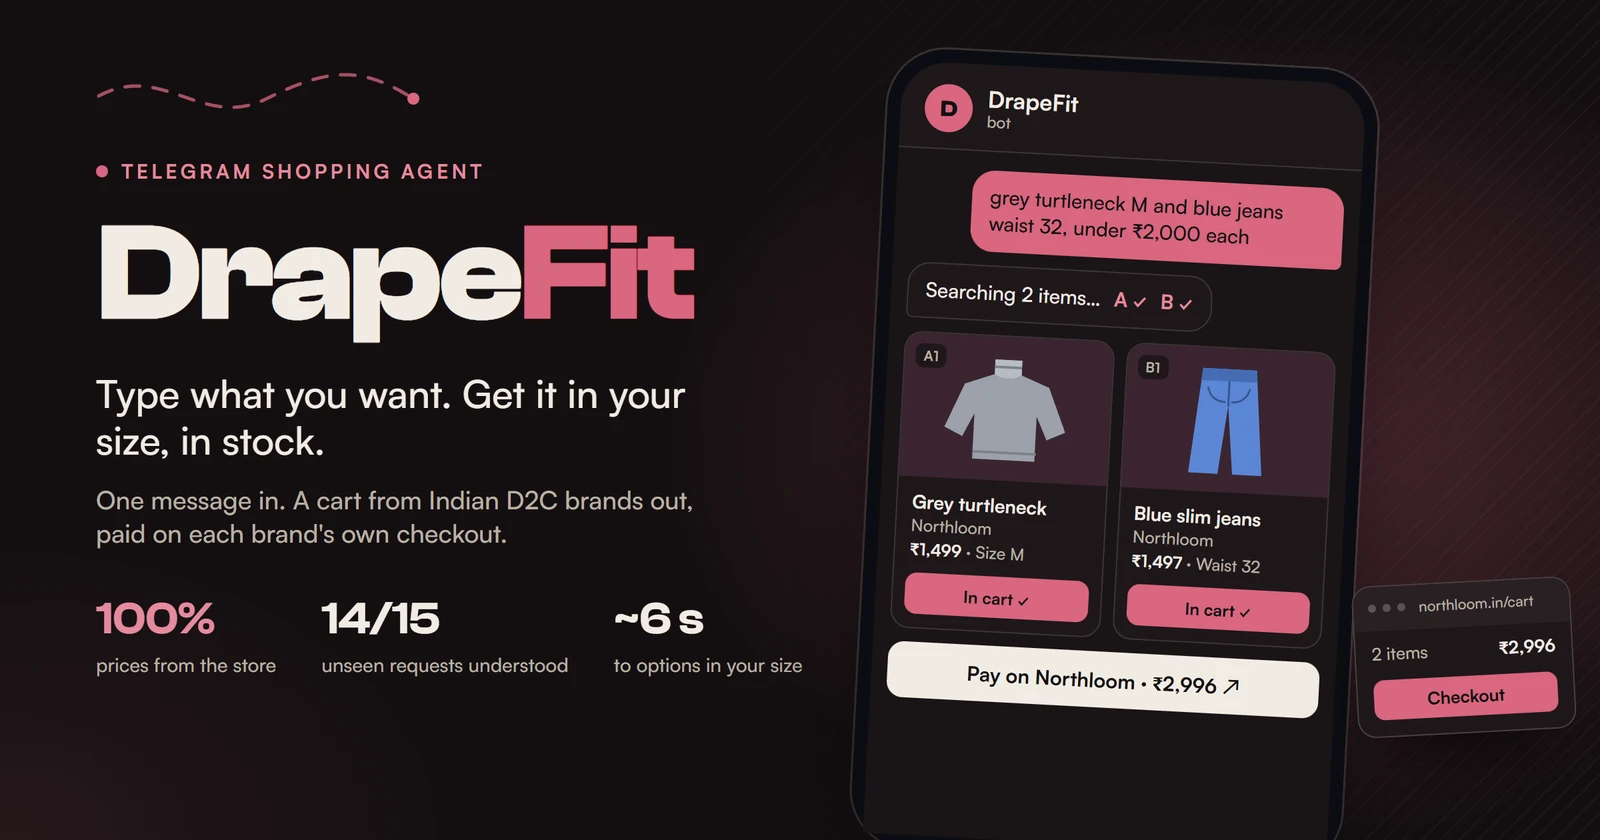
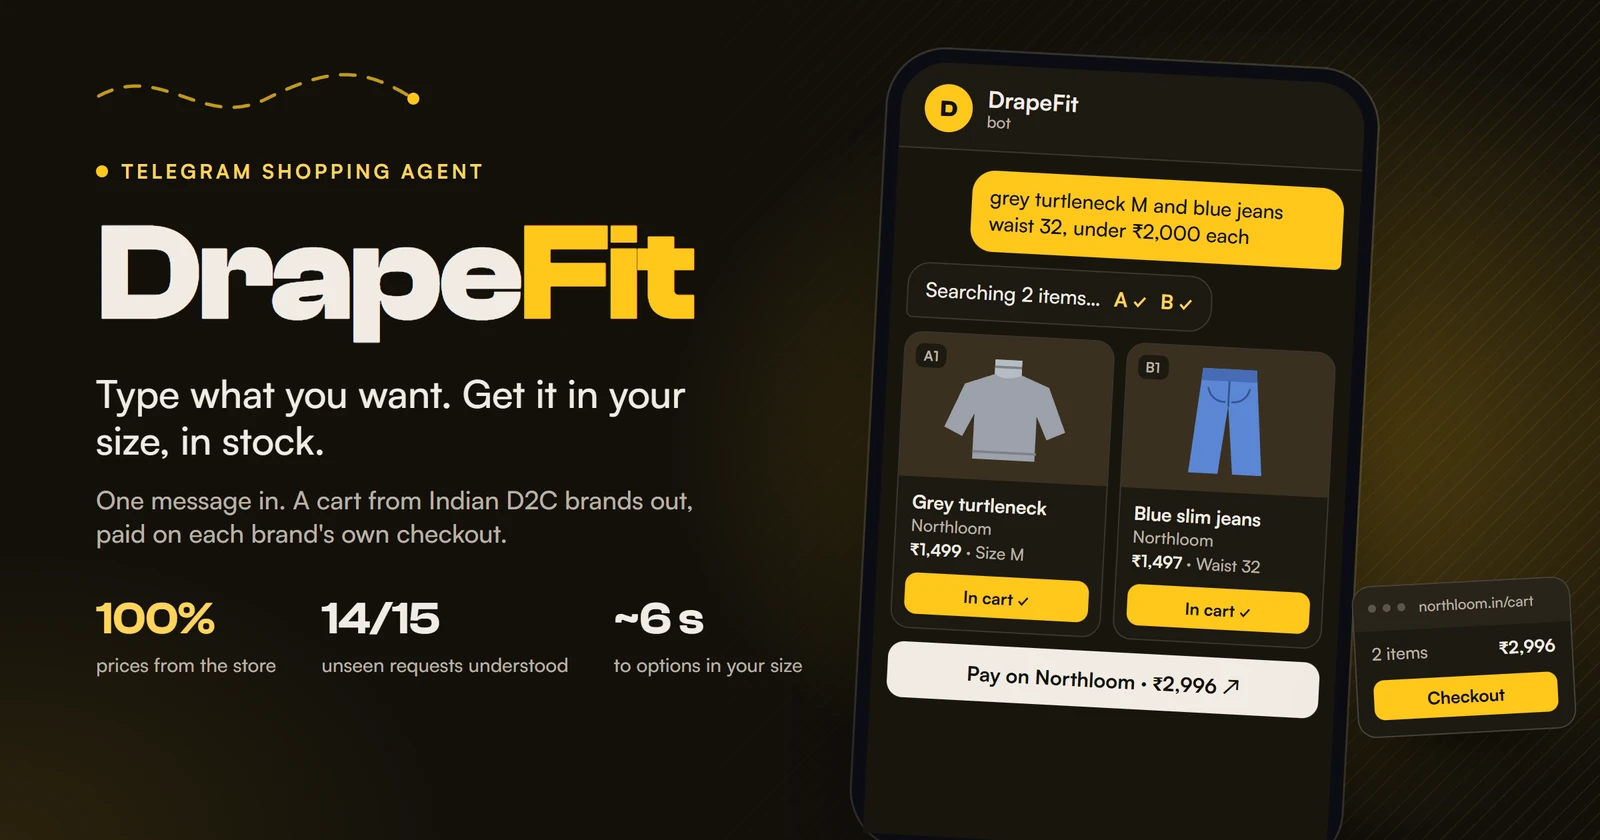
style(projects): switch DrapeFit to a yellow ochre accent
Dark text on the wine accent was hard to read on buttons and chat
bubbles. Ochre keeps dark text legible. The cover and diagram follow,
and the diagram's LLM zone moves to coral so it stays distinct.

diff --git a/app/globals.css b/app/globals.css
@@ -97,13 +97,13 @@ input,textarea{caret-color:var(--acc)}
 @property --pjbg{syntax:'<color>';inherits:true;initial-value:transparent}
 @property --pjacc{syntax:'<color>';inherits:true;initial-value:transparent}
 #projects{--bg:#EDE4D6;--surf:#FAF5EC;--surf2:#EDE4D6;--fg:#17130E;--dim:#5A4A3A;--dimmer:#6B5D4E;--line:#E6DACA;--lineS:#D9C9B4;
-  --pa-tm:#E0600F;--pa-fl:#F2B544;--pa-vx:#F08A6C;--pa-df:#9F3550;--paText-tm:#B23C0B;--paText-fl:#8A5A00;--paText-vx:#A8402E;--paText-df:#7E2238;--paInk:#17130E;
-  --pj-tm:#EEDBCA;--pj-fl:#EEE1CD;--pj-vx:#EEDECF;--pj-df:#EDDCD8;--pjwash:#E6CDB2;--pjline:rgba(90,74,58,.06);
+  --pa-tm:#E0600F;--pa-fl:#F2B544;--pa-vx:#F08A6C;--pa-df:#FFC71C;--paText-tm:#B23C0B;--paText-fl:#8A5A00;--paText-vx:#A8402E;--paText-df:#8A6400;--paInk:#17130E;
+  --pj-tm:#EEDBCA;--pj-fl:#EEE1CD;--pj-vx:#EEDECF;--pj-df:#F3E7C6;--pjwash:#E6CDB2;--pjline:rgba(90,74,58,.06);
   --pjbg:var(--pj-df);--pjacc:var(--pa-df);
   background:radial-gradient(60% 55% at 92% 4%,var(--pjwash),transparent 70%),var(--pjbg);transition:--pjbg .6s var(--ease),--pjacc .6s var(--ease)}
 [data-theme="dark"] #projects{--bg:#101318;--surf:#181C23;--surf2:#222731;--fg:#F1ECE4;--dim:#B8AE9F;--dimmer:#9AA3AE;--line:rgba(241,236,228,.08);--lineS:rgba(241,236,228,.14);
-  --pa-tm:#FF7A1F;--pa-df:#D9667F;--paText-tm:#FF7A1F;--paText-fl:#F2B544;--paText-vx:#F08A6C;--paText-df:#E58A9E;
-  --pj-tm:#18171A;--pj-fl:#17191B;--pj-vx:#17171B;--pj-df:#1A1416;--pjwash:#161B24;--pjline:rgba(241,236,228,.035)}
+  --pa-tm:#FF7A1F;--pa-df:#FFC71C;--paText-tm:#FF7A1F;--paText-fl:#F2B544;--paText-vx:#F08A6C;--paText-df:#FFC71C;
+  --pj-tm:#18171A;--pj-fl:#17191B;--pj-vx:#17171B;--pj-df:#19160F;--pjwash:#161B24;--pjline:rgba(241,236,228,.035)}
 #projects[data-current="tm"]{--pjbg:var(--pj-tm);--pjacc:var(--pa-tm)}
 #projects[data-current="fl"]{--pjbg:var(--pj-fl);--pjacc:var(--pa-fl)}
 #projects[data-current="vx"]{--pjbg:var(--pj-vx);--pjacc:var(--pa-vx)}
@@ -440,7 +440,7 @@ html.motion-ok .case-tm.paused::before,html.motion-ok .case-tm.paused .tm-field 
 @keyframes tmHatch{to{transform:translate(-40px,40px)}}
 @media (prefers-reduced-motion:reduce){.case-tm::before,.tm-field i{animation:none}}
 .case-fl::before{background-image:radial-gradient(color-mix(in oklab,var(--fg) 16%,transparent) 1px,transparent 1.4px);background-size:18px 18px;mask-image:linear-gradient(200deg,#000 0%,transparent 70%);-webkit-mask-image:linear-gradient(200deg,#000 0%,transparent 70%)}
-/* DrapeFit: a wine wash from the lower right, under a faint twill weave */
+/* DrapeFit: a yellow ochre wash from the lower right, under a faint twill weave */
 .case-df::before{background:repeating-linear-gradient(135deg,transparent 0 7px,color-mix(in oklab,var(--pa) 9%,transparent) 7px 8px),radial-gradient(60% 80% at 100% 100%,color-mix(in oklab,var(--pa) 22%,transparent),transparent 70%);mask-image:linear-gradient(300deg,#000 0%,transparent 62%);-webkit-mask-image:linear-gradient(300deg,#000 0%,transparent 62%)}
 .case-vx::before{background:radial-gradient(70% 90% at 0% 70%,color-mix(in oklab,var(--pa) 16%,transparent),transparent 70%),radial-gradient(50% 60% at 100% 0%,color-mix(in oklab,var(--fg) 8%,transparent),transparent 70%)}
 .case .copy{display:flex;flex-direction:column;gap:14px;min-width:0;align-self:start}
